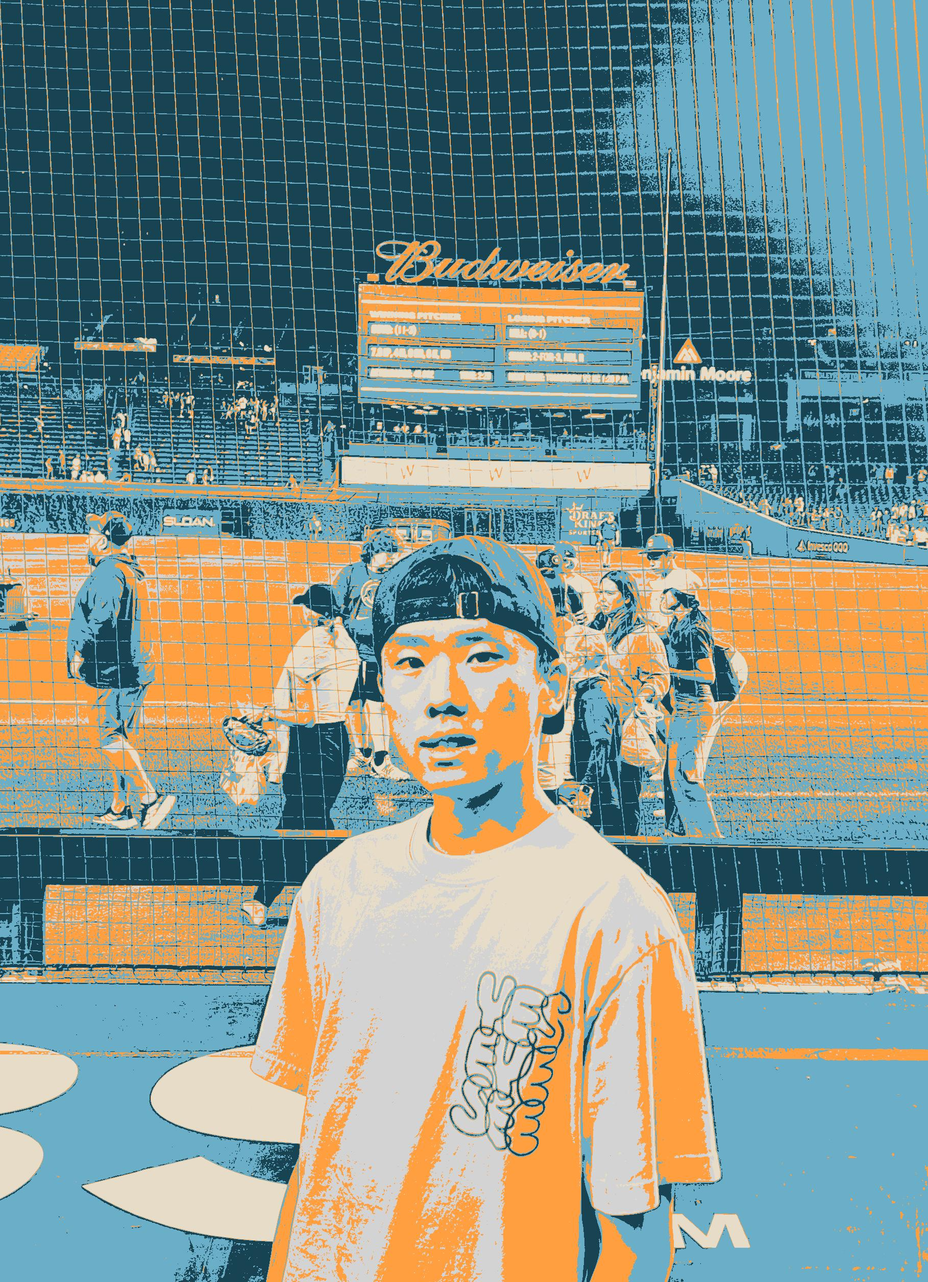
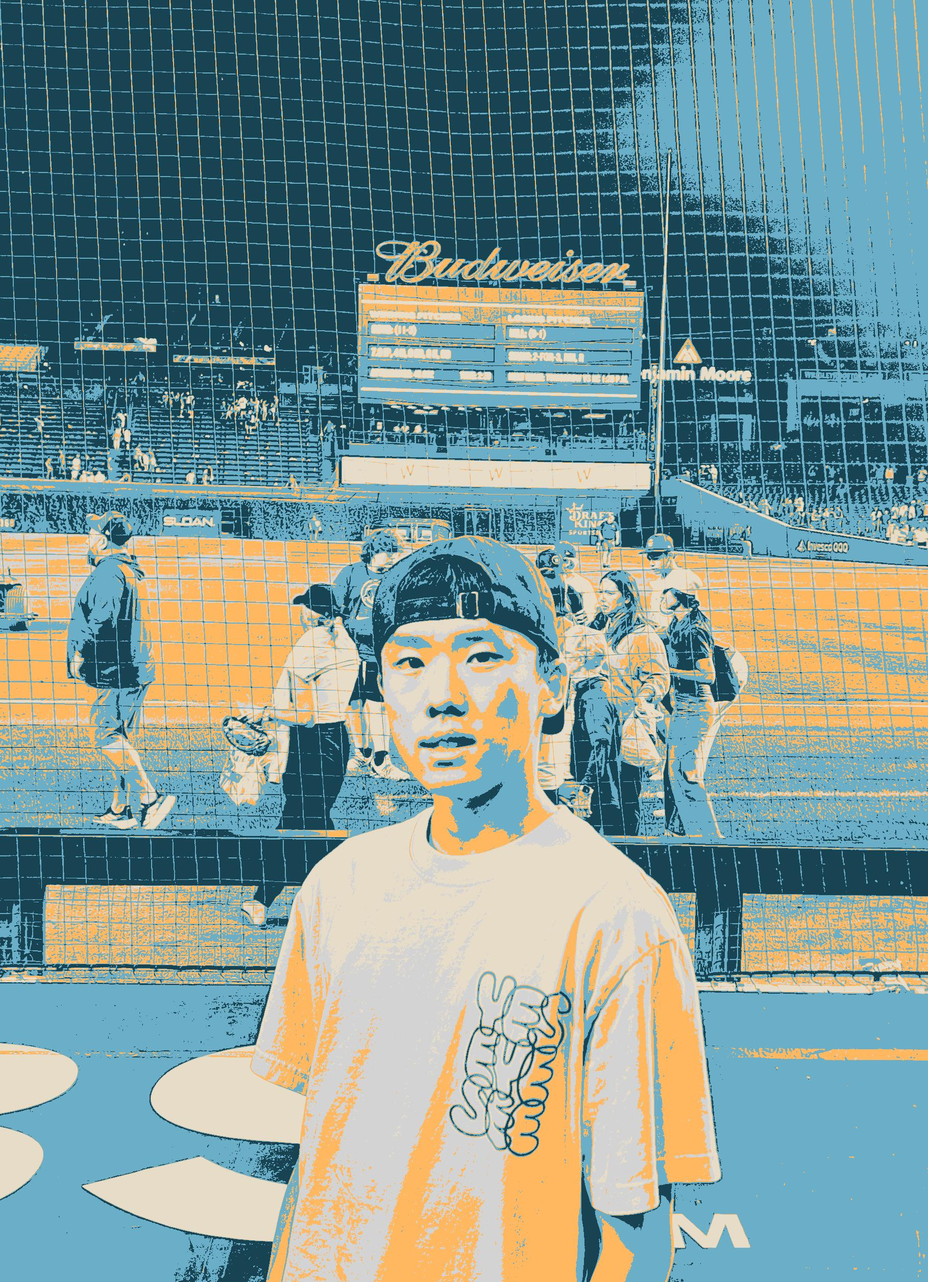
finished shepard fairey labs

diff --git a/ColorLabs17/SheparFaireyLab.java b/ColorLabs17/SheparFaireyLab.java
@@ -48,17 +48,18 @@ public class SheparFaireyLab
          Pixel[] M5pixels;
          M5pixels = me5.getPixels();
          
-         /**
-          * method 1 change
-          * 
-          */
-         
-         int avg, blue, green, red;
+         int avg, blue, green, red, value;
          
          Color offwhite = new Color(230, 220, 199);
          Color lightblue = new Color(106, 174, 199);
          Color darkblue = new Color(24, 67, 83);
          Color newred = new Color(166, 15, 15);
+         
+         /**
+          * method 1 change
+          * 
+          */
+         
          
          for (Pixel p : M1pixels)
          {
@@ -71,12 +72,13 @@ public class SheparFaireyLab
          
          for (Pixel p : M1pixels)
          {  
-            blue = p.getBlue();
-            if (blue < 64)
+            //since all rgb values are the same, doesn't matter which getter i use 
+            value = p.getBlue();//getBlue grabs the new average value from B&W
+            if (value < 64)
                 p.setColor(darkblue);
-            else if (blue < 126)
+            else if (value < 126)
                 p.setColor(newred);
-            else if (blue < 189)
+            else if (value < 189)
                 p.setColor(lightblue);
             else
                 p.setColor(offwhite);
@@ -102,13 +104,13 @@ public class SheparFaireyLab
          }
          for (Pixel p : M2pixels)
          {  
-            blue = p.getBlue();
+            value = p.getBlue();
             diff = (max - min)/4;
-            if (blue < (int)(diff))
+            if (value < (int)(diff))
                 p.setColor(darkblue);
-            else if (blue < (int)(diff * 2))
+            else if (value < (int)(diff * 2))
                 p.setColor(newred);
-            else if (blue < (int)(diff * 3))
+            else if (value < (int)(diff * 3))
                 p.setColor(lightblue);
             else
                 p.setColor(offwhite);
@@ -119,7 +121,9 @@ public class SheparFaireyLab
           * custom color palette
           */
          
+         //SFTry 1
          Color orange = new Color(255, 159, 64);
+         Color neworange = new Color(255, 184, 95);
          Color gray = new Color(211,211,211);
          
          for (Pixel p : M3pixels)
@@ -131,12 +135,12 @@ public class SheparFaireyLab
          }
          for (Pixel p : M3pixels)
          {  
-            blue = p.getBlue();
-            if (blue < 70)
+            value = p.getBlue();
+            if (value < 70)
                 p.setColor(darkblue);
-            else if (blue < 126)
+            else if (value < 126)
                 p.setColor(orange);
-            else if (blue < 189)
+            else if (value < 189)
                 p.setColor(lightblue);
             else
                 p.setColor(offwhite);
@@ -144,6 +148,8 @@ public class SheparFaireyLab
          me3.explore();
          me3.write("images/SFtry1.jpg");
          
+         //SFTry 2
+         
          for (Pixel p : M4pixels)
          {
             avg = (int)(p.getAverage());
@@ -153,14 +159,14 @@ public class SheparFaireyLab
          }
          for (Pixel p : M4pixels)
          { 
-            blue = p.getBlue();
-            if (blue < 70)
+            value = p.getBlue();
+            if (value < 70)
                 p.setColor(darkblue);
-            else if (blue < 110)
+            else if (value < 110)
                 p.setColor(lightblue);
-            else if (blue < 165)
+            else if (value < 165)
                 p.setColor(orange);
-            else if (blue < 200)
+            else if (value < 200)
                 p.setColor(gray);
             else
                 p.setColor(offwhite);
@@ -168,6 +174,8 @@ public class SheparFaireyLab
          me4.explore();
          me4.write("images/SFtry2.jpg");
          
+         //SFTry 3
+         
          for (Pixel p : M5pixels)
          {
             avg = (int)(p.getAverage());
@@ -177,20 +185,19 @@ public class SheparFaireyLab
          }
          for (Pixel p : M5pixels)
          { 
-            blue = p.getBlue();
-            if (blue < 70)
+            value = p.getBlue();
+            if (value < 70)
                 p.setColor(darkblue);
-            else if (blue < 120)
+            else if (value < 130)
                 p.setColor(lightblue);
-            else if (blue < 165)
-                p.setColor(orange);
-            else if (blue < 190)
+            else if (value < 165)
+                p.setColor(neworange);
+            else if (value < 185)
                 p.setColor(gray);
             else
                 p.setColor(offwhite);
          }
          me5.explore();
          me5.write("images/SFtry3.jpg");
-         
     }//main       
 }//class
